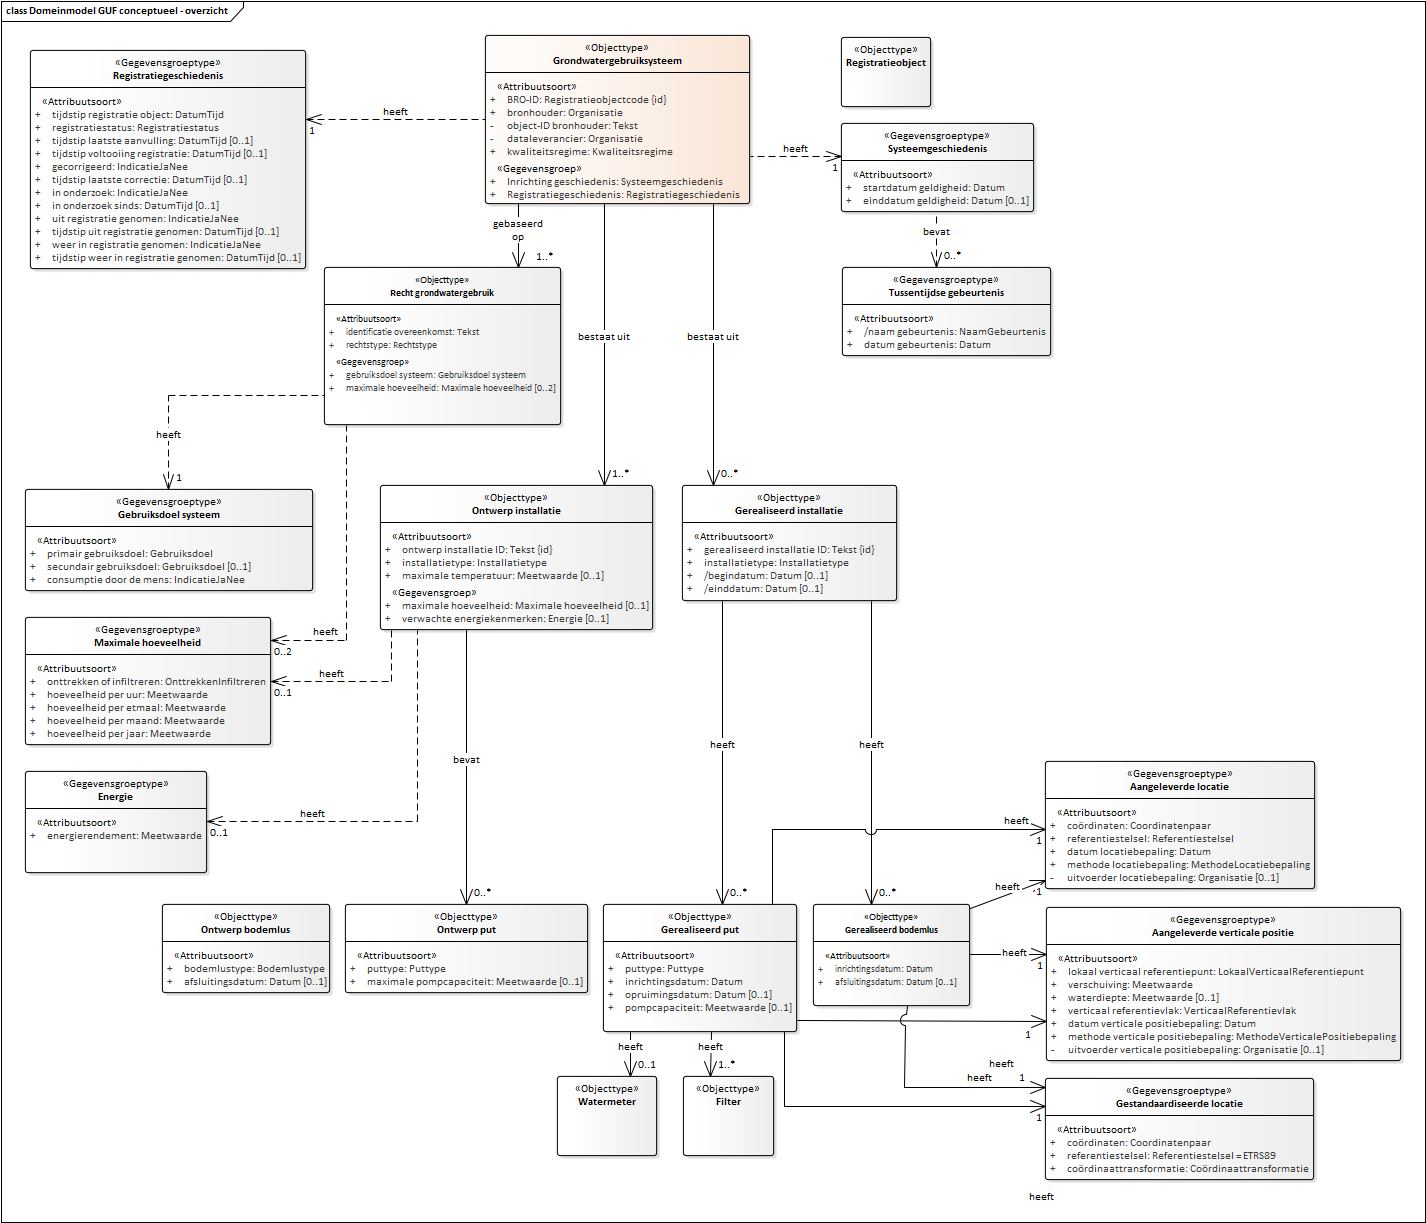
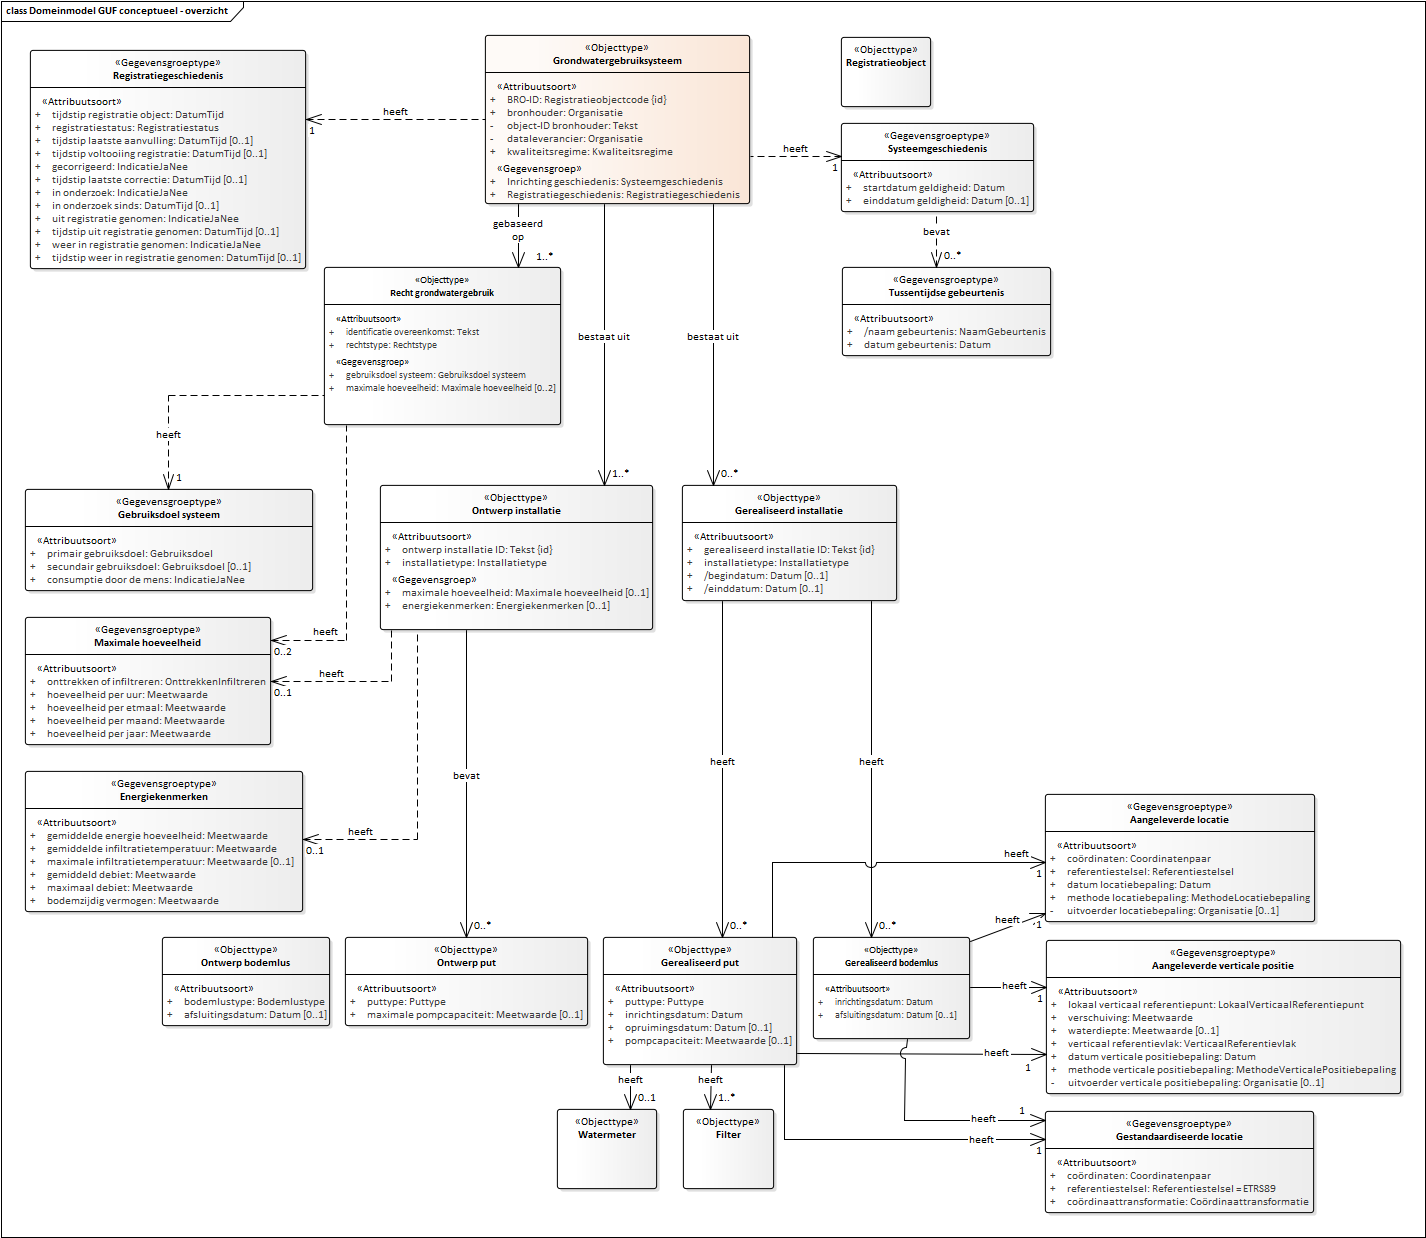
Conceptualmodel-GrondwatergebruikGUFconceptueel-0.1-1-20200401-20201106-151120

diff --git a/data/GUF-cat.msword.html b/data/GUF-cat.msword.html
@@ -15,7 +15,7 @@
    <body>
       <p>Conceptual model/Grondwatergebruik (GUF) conceptueel/20200401</p>
       <p>Imvertor: 1.62.0</p>
-      <p>Model release: Conceptualmodel-GrondwatergebruikGUFconceptueel-0.1-1-20200401-20201106-135123</p>
+      <p>Model release: Conceptualmodel-GrondwatergebruikGUFconceptueel-0.1-1-20200401-20201106-151120</p>
       <hr>
       <section>
          <h1>Artikel 1 Definitie van registratieobject, entiteiten en attributen</h1>
@@ -62,7 +62,7 @@
          <section>
             <h2>Het domeinmodel</h2>
             <section id="">
-               <div class="imageinfo overview"><img src="Images/EAID_56F5F935_4109_4da0_A034_9EA7B40769E1.png" usemap="#imagemap-EAID_56F5F935_4109_4da0_A034_9EA7B40769E1" alt="Diagram "><map name="imagemap-EAID_56F5F935_4109_4da0_A034_9EA7B40769E1"><area shape="rect" alt="Tussentijdse gebeurtenis" coords="842,267,1051,356" href="#graph_EAID_98E530BE_5699_451a_8FC6_9C326ADD0528"><area shape="rect" alt="Systeemgeschiedenis" coords="841,123,1034,212" href="#graph_EAID_2BD94CFC_4D2B_498d_96DC_DF9DE395E7C4"><area shape="rect" alt="Ontwerp bodemlus" coords="162,904,330,993" href="#graph_EAID_B81BCB5C_B9C7_42d9_9F9E_3F76580BB410"><area shape="rect" alt="Ontwerp put" coords="345,904,588,993" href="#graph_EAID_FC483397_9430_4114_AE54_A7BE5A654EA9"><area shape="rect" alt="Energie" coords="25,771,207,873" href="#graph_EAID_F60FFCA9_A741_4d37_8DFE_FC87122B9777"><area shape="rect" alt="Maximale hoeveelheid" coords="25,617,271,745" href="#graph_EAID_D88F2231_8D52_4bac_AE7F_55102360A23B"><area shape="rect" alt="Gebruiksdoel systeem" coords="25,489,313,591" href="#graph_EAID_DB9B3E32_EE42_4c47_A5CC_5AE7B58A2D13"><area shape="rect" alt="Gerealiseerd installatie" coords="682,485,897,601" href="#graph_EAID_45C4EF5D_AC27_47cc_926D_7F514776B53D"><area shape="rect" alt="Gestandaardiseerde locatie" coords="1045,1078,1314,1180" href="#graph_EAID_7F1D92D4_092C_4272_8CA2_89F93EA3F12E"><area shape="rect" alt="Aangeleverde verticale positie" coords="1046,907,1401,1061" href="#graph_EAID_6AA525F0_F1B6_4471_96BE_E1DEF2FCC704"><area shape="rect" alt="Watermeter" coords="557,1076,657,1156" href="#graph_EAID_4A487037_0E94_4ee8_81A8_2355D11DE89F"><area shape="rect" alt="Filter" coords="683,1076,774,1156" href="#graph_EAID_9D151445_53ED_4738_9920_071518BB50C1"><area shape="rect" alt="Recht grondwatergebruik" coords="324,267,561,425" href="#graph_EAID_1A591F8A_2ECC_4122_86C9_26BFA5C5420E"><area shape="rect" alt="Gerealiseerd put" coords="603,904,797,1032" href="#graph_EAID_F75BA1C9_02EB_48e6_B9A8_A018120E2279"><area shape="rect" alt="Gerealiseerd bodemlus" coords="813,904,970,1006" href="#graph_EAID_D45703EE_CCD5_434c_A478_BFA48D1A9DCB"><area shape="rect" alt="Ontwerp installatie" coords="380,485,653,630" href="#graph_EAID_DB2636FB_090C_4af0_AA40_4301B23795E2"><area shape="rect" alt="Registratiegeschiedenis" coords="30,50,306,269" href="#graph_EAID_C00FA7D7_7F78_413d_80CC_8F5D41996171"><area shape="rect" alt="Aangeleverde locatie" coords="1045,761,1315,889" href="#graph_EAID_FA55712E_2710_4bb3_A08E_6B62C39189F5"><area shape="rect" alt="Grondwatergebruiksysteem" coords="485,35,750,204" href="#graph_EAID_048DC684_486B_4605_B9CA_40413DB3C9DC"><area shape="rect" alt="Registratieobject" coords="841,37,931,107" href="#graph_EAID_2AC7632D_D0CE_4468_8510_855B506BE12A"></map><p><b>Domeinmodel GUF conceptueel</b></p>
+               <div class="imageinfo overview"><img src="Images/EAID_56F5F935_4109_4da0_A034_9EA7B40769E1.png" usemap="#imagemap-EAID_56F5F935_4109_4da0_A034_9EA7B40769E1" alt="Diagram "><map name="imagemap-EAID_56F5F935_4109_4da0_A034_9EA7B40769E1"><area shape="rect" alt="Tussentijdse gebeurtenis" coords="842,267,1051,356" href="#graph_EAID_98E530BE_5699_451a_8FC6_9C326ADD0528"><area shape="rect" alt="Systeemgeschiedenis" coords="841,123,1034,212" href="#graph_EAID_2BD94CFC_4D2B_498d_96DC_DF9DE395E7C4"><area shape="rect" alt="Ontwerp bodemlus" coords="162,937,330,1026" href="#graph_EAID_B81BCB5C_B9C7_42d9_9F9E_3F76580BB410"><area shape="rect" alt="Ontwerp put" coords="345,937,588,1026" href="#graph_EAID_FC483397_9430_4114_AE54_A7BE5A654EA9"><area shape="rect" alt="Energiekenmerken" coords="25,771,303,912" href="#graph_EAID_F60FFCA9_A741_4d37_8DFE_FC87122B9777"><area shape="rect" alt="Maximale hoeveelheid" coords="25,617,271,745" href="#graph_EAID_D88F2231_8D52_4bac_AE7F_55102360A23B"><area shape="rect" alt="Gebruiksdoel systeem" coords="25,489,313,591" href="#graph_EAID_DB9B3E32_EE42_4c47_A5CC_5AE7B58A2D13"><area shape="rect" alt="Gerealiseerd installatie" coords="682,485,897,601" href="#graph_EAID_45C4EF5D_AC27_47cc_926D_7F514776B53D"><area shape="rect" alt="Gestandaardiseerde locatie" coords="1045,1111,1314,1213" href="#graph_EAID_7F1D92D4_092C_4272_8CA2_89F93EA3F12E"><area shape="rect" alt="Aangeleverde verticale positie" coords="1046,940,1401,1094" href="#graph_EAID_6AA525F0_F1B6_4471_96BE_E1DEF2FCC704"><area shape="rect" alt="Watermeter" coords="557,1109,657,1189" href="#graph_EAID_4A487037_0E94_4ee8_81A8_2355D11DE89F"><area shape="rect" alt="Filter" coords="683,1109,774,1189" href="#graph_EAID_9D151445_53ED_4738_9920_071518BB50C1"><area shape="rect" alt="Recht grondwatergebruik" coords="324,267,561,425" href="#graph_EAID_1A591F8A_2ECC_4122_86C9_26BFA5C5420E"><area shape="rect" alt="Gerealiseerd put" coords="603,937,797,1065" href="#graph_EAID_F75BA1C9_02EB_48e6_B9A8_A018120E2279"><area shape="rect" alt="Gerealiseerd bodemlus" coords="813,937,970,1039" href="#graph_EAID_D45703EE_CCD5_434c_A478_BFA48D1A9DCB"><area shape="rect" alt="Ontwerp installatie" coords="380,485,653,630" href="#graph_EAID_DB2636FB_090C_4af0_AA40_4301B23795E2"><area shape="rect" alt="Registratiegeschiedenis" coords="30,50,306,269" href="#graph_EAID_C00FA7D7_7F78_413d_80CC_8F5D41996171"><area shape="rect" alt="Aangeleverde locatie" coords="1045,794,1315,922" href="#graph_EAID_FA55712E_2710_4bb3_A08E_6B62C39189F5"><area shape="rect" alt="Grondwatergebruiksysteem" coords="485,35,750,204" href="#graph_EAID_048DC684_486B_4605_B9CA_40413DB3C9DC"><area shape="rect" alt="Registratieobject" coords="841,37,931,107" href="#graph_EAID_2AC7632D_D0CE_4468_8510_855B506BE12A"></map><p><b>Domeinmodel GUF conceptueel</b></p>
                </div>
             </section>
          </section>
@@ -1773,8 +1773,28 @@
                            </tr>
                         </tbody>
                      </table>
-                     </section><a class="anchor" id="detail_attribute_Model_Ontwerpinstallatie_maximaletemperatuur"></a><section id="detail_attribute_Model_Ontwerpinstallatie_maximaletemperatuur">
-                     <h4>  maximale temperatuur</h4>
+                     </section>
+               </section><a class="anchor" id="graph_EAID_F60FFCA9_A741_4d37_8DFE_FC87122B9777"></a><a class="anchor" id="global_class_Model_Energiekenmerken"></a><section id="global_class_Model_Energiekenmerken">
+                  <h3>   Energiekenmerken</h3>
+                  <table style="width: 100%;">
+                     <colgroup style="width: 30%;"></colgroup>
+                     <colgroup style="width: 70%;"></colgroup>
+                     <tbody>
+                        <tr>
+                           <th>Type gegeven</th>
+                           <td>Entiteit</td>
+                        </tr>
+                        <tr>
+                           <th>Definitie</th>
+                           <td>
+                              
+                              <p>De in de beschikking of melding genoemde energiegerelateerde eigenschappen van de
+                                 installatie.</p>
+                              </td>
+                        </tr>
+                     </tbody>
+                  </table><a class="anchor" id="detail_attribute_Model_Energiekenmerken_gemiddeldeenergiehoeveelheid"></a><section id="detail_attribute_Model_Energiekenmerken_gemiddeldeenergiehoeveelheid">
+                     <h4>  gemiddelde energie hoeveelheid</h4>
                      
                      <table style="width: 100%;">
                         <colgroup style="width: 30%;"></colgroup>
@@ -1782,7 +1802,104 @@
                         <tbody>
                            <tr>
                               <th>Type gegeven</th>
-                              <td>Attribuut van Ontwerp installatie</td>
+                              <td>Attribuut van Energiekenmerken</td>
+                           </tr>
+                           <tr>
+                              <th>Definitie</th>
+                              <td>
+                                 
+                                 <p>Gemiddelde hoeveelheid energie per jaar.</p>
+                                 </td>
+                           </tr>
+                           <tr>
+                              <th>Juridische status</th>
+                              <td>Authentiek</td>
+                           </tr>
+                           <tr>
+                              <th>Kardinaliteit</th>
+                              <td>1</td>
+                           </tr>
+                           <tr>
+                              <th>Domein</th>
+                              <td></td>
+                           </tr>
+                           <tr>
+                              <th>&nbsp;&nbsp;Naam</th>
+                              <td>Meetwaarde 
+                                 </td>
+                           </tr>
+                           <tr>
+                              <th>&nbsp;&nbsp;Eenheid</th>
+                              <td>MWh</td>
+                           </tr>
+                           <tr>
+                              <th>Regels</th>
+                              <td>
+                                 
+                                 <p>Allen als installatietype = OBES of GBES</p>
+                                 </td>
+                           </tr>
+                        </tbody>
+                     </table>
+                     </section><a class="anchor" id="detail_attribute_Model_Energiekenmerken_gemiddeldeinfiltratietemperatuur"></a><section id="detail_attribute_Model_Energiekenmerken_gemiddeldeinfiltratietemperatuur">
+                     <h4>  gemiddelde infiltratietemperatuur</h4>
+                     
+                     <table style="width: 100%;">
+                        <colgroup style="width: 30%;"></colgroup>
+                        <colgroup style="width: 70%;"></colgroup>
+                        <tbody>
+                           <tr>
+                              <th>Type gegeven</th>
+                              <td>Attribuut van Energiekenmerken</td>
+                           </tr>
+                           <tr>
+                              <th>Definitie</th>
+                              <td>
+                                 
+                                 <p>Bron-gemiddelde temperatuur van het water dat in de bodem wordt gebracht zoals vermeld
+                                    in de beschikking of de melding.</p>
+                                 </td>
+                           </tr>
+                           <tr>
+                              <th>Juridische status</th>
+                              <td>Authentiek</td>
+                           </tr>
+                           <tr>
+                              <th>Kardinaliteit</th>
+                              <td>1</td>
+                           </tr>
+                           <tr>
+                              <th>Domein</th>
+                              <td></td>
+                           </tr>
+                           <tr>
+                              <th>&nbsp;&nbsp;Naam</th>
+                              <td>Meetwaarde 
+                                 </td>
+                           </tr>
+                           <tr>
+                              <th>&nbsp;&nbsp;Eenheid</th>
+                              <td>°C (graden Celsius)</td>
+                           </tr>
+                           <tr>
+                              <th>Regels</th>
+                              <td>
+                                 
+                                 <p>Allen als installatietype = OBES</p>
+                                 </td>
+                           </tr>
+                        </tbody>
+                     </table>
+                     </section><a class="anchor" id="detail_attribute_Model_Energiekenmerken_maximaleinfiltratietemperatuur"></a><section id="detail_attribute_Model_Energiekenmerken_maximaleinfiltratietemperatuur">
+                     <h4>  maximale infiltratietemperatuur</h4>
+                     
+                     <table style="width: 100%;">
+                        <colgroup style="width: 30%;"></colgroup>
+                        <colgroup style="width: 70%;"></colgroup>
+                        <tbody>
+                           <tr>
+                              <th>Type gegeven</th>
+                              <td>Attribuut van Energiekenmerken</td>
                            </tr>
                            <tr>
                               <th>Definitie</th>
@@ -1822,20 +1939,8 @@
                            </tr>
                         </tbody>
                      </table>
-                     </section>
-               </section><a class="anchor" id="graph_EAID_F60FFCA9_A741_4d37_8DFE_FC87122B9777"></a><a class="anchor" id="global_class_Model_Energie"></a><section id="global_class_Model_Energie">
-                  <h3>   Energie</h3>
-                  <table style="width: 100%;">
-                     <colgroup style="width: 30%;"></colgroup>
-                     <colgroup style="width: 70%;"></colgroup>
-                     <tbody>
-                        <tr>
-                           <th>Type gegeven</th>
-                           <td>Entiteit</td>
-                        </tr>
-                     </tbody>
-                  </table><a class="anchor" id="detail_attribute_Model_Energie_energierendement"></a><section id="detail_attribute_Model_Energie_energierendement">
-                     <h4>  energierendement</h4>
+                     </section><a class="anchor" id="detail_attribute_Model_Energiekenmerken_gemiddelddebiet"></a><section id="detail_attribute_Model_Energiekenmerken_gemiddelddebiet">
+                     <h4>  gemiddeld debiet</h4>
                      
                      <table style="width: 100%;">
                         <colgroup style="width: 30%;"></colgroup>
@@ -1843,7 +1948,7 @@
                         <tbody>
                            <tr>
                               <th>Type gegeven</th>
-                              <td>Attribuut van Energie</td>
+                              <td>Attribuut van Energiekenmerken</td>
                            </tr>
                            <tr>
                               <th>Juridische status</th>
@@ -1860,6 +1965,99 @@
                            <tr>
                               <th>&nbsp;&nbsp;Naam</th>
                               <td>Meetwaarde 
+                                 </td>
+                           </tr>
+                           <tr>
+                              <th>&nbsp;&nbsp;Eenheid</th>
+                              <td>m3/h</td>
+                           </tr>
+                           <tr>
+                              <th>Regels</th>
+                              <td>
+                                 
+                                 <p>Allen als installatietype = OBES</p>
+                                 </td>
+                           </tr>
+                        </tbody>
+                     </table>
+                     </section><a class="anchor" id="detail_attribute_Model_Energiekenmerken_maximaaldebiet"></a><section id="detail_attribute_Model_Energiekenmerken_maximaaldebiet">
+                     <h4>  maximaal debiet</h4>
+                     
+                     <table style="width: 100%;">
+                        <colgroup style="width: 30%;"></colgroup>
+                        <colgroup style="width: 70%;"></colgroup>
+                        <tbody>
+                           <tr>
+                              <th>Type gegeven</th>
+                              <td>Attribuut van Energiekenmerken</td>
+                           </tr>
+                           <tr>
+                              <th>Juridische status</th>
+                              <td>Authentiek</td>
+                           </tr>
+                           <tr>
+                              <th>Kardinaliteit</th>
+                              <td>1</td>
+                           </tr>
+                           <tr>
+                              <th>Domein</th>
+                              <td></td>
+                           </tr>
+                           <tr>
+                              <th>&nbsp;&nbsp;Naam</th>
+                              <td>Meetwaarde 
+                                 </td>
+                           </tr>
+                           <tr>
+                              <th>&nbsp;&nbsp;Eenheid</th>
+                              <td>m3/h</td>
+                           </tr>
+                           <tr>
+                              <th>Regels</th>
+                              <td>
+                                 
+                                 <p>Allen als installatietype = OBES</p>
+                                 </td>
+                           </tr>
+                        </tbody>
+                     </table>
+                     </section><a class="anchor" id="detail_attribute_Model_Energiekenmerken_bodemzijdigvermogen"></a><section id="detail_attribute_Model_Energiekenmerken_bodemzijdigvermogen">
+                     <h4>  bodemzijdig vermogen</h4>
+                     
+                     <table style="width: 100%;">
+                        <colgroup style="width: 30%;"></colgroup>
+                        <colgroup style="width: 70%;"></colgroup>
+                        <tbody>
+                           <tr>
+                              <th>Type gegeven</th>
+                              <td>Attribuut van Energiekenmerken</td>
+                           </tr>
+                           <tr>
+                              <th>Juridische status</th>
+                              <td>Authentiek</td>
+                           </tr>
+                           <tr>
+                              <th>Kardinaliteit</th>
+                              <td>1</td>
+                           </tr>
+                           <tr>
+                              <th>Domein</th>
+                              <td></td>
+                           </tr>
+                           <tr>
+                              <th>&nbsp;&nbsp;Naam</th>
+                              <td>Meetwaarde 
+                                 </td>
+                           </tr>
+                           <tr>
+                              <th>&nbsp;&nbsp;Eenheid</th>
+                              <td>kW</td>
+                           </tr>
+                           <tr>
+                              <th>Regels</th>
+                              <td>
+                                 
+                                 <p>Allen als installatietype = GBES</p>
                                  </td>
                            </tr>
                         </tbody>
@@ -3451,12 +3649,13 @@
                      <th>Omschrijving</th>
                   </tr>
                   <tr>
-                     <td>onttrekking</td>
+                     <td>evenwicht</td>
                      <td>✔</td>
                      <td>✔</td>
                      <td>
                         
-                        <p>Het grondwater wordt onntrokken aan de bodem.</p>
+                        <p>De hoeveelheid water die binnen de installatie wordt ontrokken aan de bodem is gelijk
+                           aan de hoeveelheid die op een ander punt in de bodem wordt gebracht.</p>
                         </td>
                   </tr>
                   <tr>
@@ -3470,13 +3669,12 @@
                         </td>
                   </tr>
                   <tr>
-                     <td>evenwicht</td>
+                     <td>onttrekking</td>
                      <td>✔</td>
                      <td>✔</td>
                      <td>
                         
-                        <p>De hoeveelheid water die binnen de installatie wordt ontrokken aan de bodem is gelijk
-                           aan de hoeveelheid die op een ander punt in de bodem wordt gebracht.</p>
+                        <p>Het grondwater wordt onntrokken aan de bodem.</p>
                         </td>
                   </tr>
                </tbody>
@@ -3501,45 +3699,6 @@
                      <th>IMBRO</th>
                      <th>IMBRO/A</th>
                      <th>Omschrijving</th>
-                  </tr>
-               </tbody>
-            </table>
-            </section>
-         <section id="detail_class_Model_Systeemstatus">
-            <h3>  Systeemstatus</h3>
-            
-            <table style="width: 100%;" class="list">
-               <colgroup></colgroup>
-               <tbody>
-                  <tr>
-                     <td></td>
-                  </tr>
-               </tbody>
-            </table>
-            
-            <table style="width: 100%;" class="list">
-               <colgroup style="width: 20%;"></colgroup>
-               <colgroup style="width: 5%;"></colgroup>
-               <colgroup style="width: 5%;"></colgroup>
-               <colgroup></colgroup>
-               <tbody>
-                  <tr>
-                     <th>Waarde</th>
-                     <th>IMBRO</th>
-                     <th>IMBRO/A</th>
-                     <th>Omschrijving</th>
-                  </tr>
-                  <tr>
-                     <td>ontwerp</td>
-                     <td>✔</td>
-                     <td>✔</td>
-                     <td></td>
-                  </tr>
-                  <tr>
-                     <td>gerealiseerd</td>
-                     <td>✔</td>
-                     <td>✔</td>
-                     <td></td>
                   </tr>
                </tbody>
             </table>
@@ -3614,31 +3773,13 @@
                      <th>Omschrijving</th>
                   </tr>
                   <tr>
-                     <td>vergunning</td>
+                     <td>beschikking</td>
                      <td>✔</td>
                      <td>✔</td>
                      <td></td>
                   </tr>
                   <tr>
-                     <td>melding AR</td>
-                     <td>✔</td>
-                     <td>✔</td>
-                     <td></td>
-                  </tr>
-                  <tr>
-                     <td>eigendom</td>
-                     <td>✔</td>
-                     <td>✔</td>
-                     <td></td>
-                  </tr>
-                  <tr>
-                     <td>gebruik</td>
-                     <td>✔</td>
-                     <td>✔</td>
-                     <td></td>
-                  </tr>
-                  <tr>
-                     <td>beheer</td>
+                     <td>melding</td>
                      <td>✔</td>
                      <td>✔</td>
                      <td></td>
